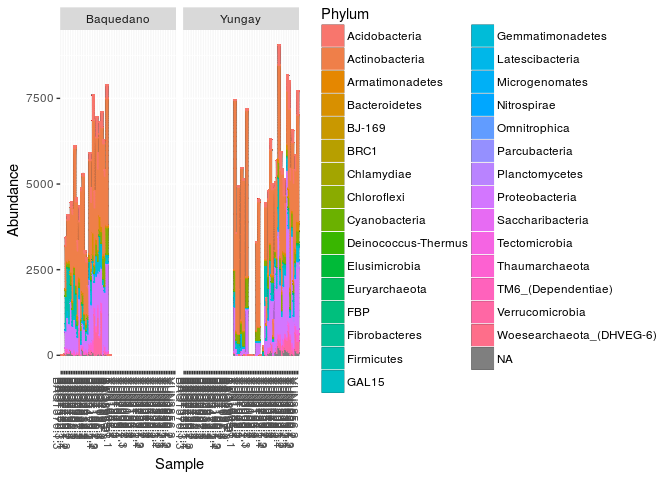
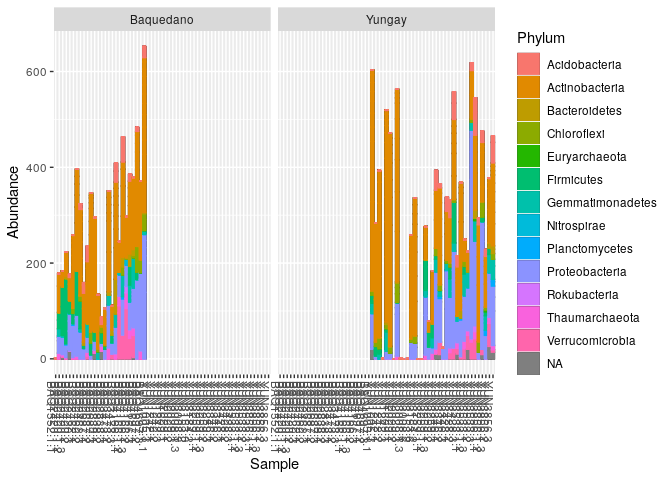
absolute_abundance_plots.Rmd: switched to 1% data to speed up chunks Also added timing code

diff --git a/content/lessons/absolute_abundance_plots.md b/content/lessons/absolute_abundance_plots.md
@@ -1,12 +1,14 @@
 Resources
 ---------
 
-This draws from [phyloseq plot\_bar tutorial](https://joey711.github.io/phyloseq/plot_bar-examples.html).
+This draws from [phyloseq plot\_bar
+tutorial](https://joey711.github.io/phyloseq/plot_bar-examples.html).
 
 Data
 ----
 
-This tutorial uses the 10% Atacama subset data (note that for the demux and dada2 tutorial we used the 1% Atacama subset)
+This tutorial uses the 10% Atacama subset data (note that for the demux
+and dada2 tutorial we used the 1% Atacama subset)
 
 Getting ready
 =============
@@ -16,22 +18,25 @@ First we load libraries.
 ``` r
 library(readr)
 library(phyloseq)
+library(ggplot2)
+library(dplyr)
 ```
 
 ``` r
-atacama.ps = read_rds(atacama.rds)
+atacama.ps = read_rds(atacama.ps.rds)
 print(atacama.ps)
 ```
 
     ## phyloseq-class experiment-level object
-    ## otu_table()   OTU Table:         [ 3388 taxa and 68 samples ]
-    ## sample_data() Sample Data:       [ 68 samples by 22 sample variables ]
-    ## tax_table()   Taxonomy Table:    [ 3388 taxa by 7 taxonomic ranks ]
+    ## otu_table()   OTU Table:         [ 459 taxa and 61 samples ]
+    ## sample_data() Sample Data:       [ 61 samples by 22 sample variables ]
+    ## tax_table()   Taxonomy Table:    [ 459 taxa by 7 taxonomic ranks ]
 
 Simple absolute abundance plot
 ------------------------------
 
-Let's start by making a simple absolute abundance bar plot with samples on the x-axis and absolute abundance on the y-axis.
+Let’s start by making a simple absolute abundance bar plot with samples
+on the x-axis and absolute abundance on the y-axis.
 
 ``` r
 plot_bar(atacama.ps)
@@ -41,9 +46,11 @@ plot_bar(atacama.ps)
 
 ### Absolute abundance plot with kingdom
 
-Now let's look add the kingdom distribution of the reads. This is a good sanity check for contamination - we expect the *vast* majority of our reads to be bacterial.
+Now let’s look add the kingdom distribution of the reads. This is a good
+sanity check for contamination - we expect the *vast* majority of our
+reads to be bacterial.
 
-First let's look up the names of the taxonomic levels
+First let’s look up the names of the taxonomic levels
 
 ``` r
 rank_names(atacama.ps)
@@ -59,7 +66,15 @@ plot_bar(atacama.ps, fill="Kingdom")
 
 ### Getting rid of annoying black lines
 
-You may have noticed that the bars are divided by short horizontal black lines. This is because each bar actually consists of a stack of sub-bars, each representing a different OTU. Usually the sub-bars delineation are more confusing than helpful, so I prefer to get rid of it. This isn't that hard to do! by default `plot_bar` outlines each sub-bar in black, but if we outline sub-bars with the same color as the bar fill, we get rid of the delineation. Let's re-make the *Absolute abundance plot with kingdom* from above, but without the black sub-bar outlines.
+You may have noticed that the bars are divided by short horizontal black
+lines. This is because each bar actually consists of a stack of
+sub-bars, each representing a different OTU. Usually the sub-bars
+delineation are more confusing than helpful, so I prefer to get rid of
+it. This isn’t that hard to do! by default `plot_bar` outlines each
+sub-bar in black, but if we outline sub-bars with the same color as the
+bar fill, we get rid of the delineation. Let’s re-make the *Absolute
+abundance plot with kingdom* from above, but without the black sub-bar
+outlines.
 
 ``` r
 plot_bar(atacama.ps, fill="Kingdom") +
@@ -70,7 +85,8 @@ plot_bar(atacama.ps, fill="Kingdom") +
 
 ### Absolute abundance plot with phyllum
 
-Now do the same as above, but with coloring by phyllum instead of by kingdom.
+Now do the same as above, but with coloring by phyllum instead of by
+kingdom.
 
 ``` r
 plot_bar(atacama.ps, fill="Phylum") +
@@ -82,9 +98,15 @@ plot_bar(atacama.ps, fill="Phylum") +
 Facet Abundance Plots
 ---------------------
 
-From our plots so far, we see some variation in number of reads per sample. This is to be expected, but we want to be sure that there are no confounding problems, for example, categories of samples that are outliers. To this end, we can make facet plots to group samples by different metadata features. Let's remake the kingdom absolute abundance plot so that samples are grouped by a variable, this will give us an idea if there is a correlation between the variable and abundance.
+From our plots so far, we see some variation in number of reads per
+sample. This is to be expected, but we want to be sure that there are no
+confounding problems, for example, categories of samples that are
+outliers. To this end, we can make facet plots to group samples by
+different metadata features. Let’s remake the kingdom absolute abundance
+plot so that samples are grouped by a variable, this will give us an
+idea if there is a correlation between the variable and abundance.
 
-First let's see what variables are available.
+First let’s see what variables are available.
 
 ``` r
 sample_variables(atacama.ps)
@@ -107,12 +129,12 @@ get_variable(atacama.ps,"SiteName") %>%
   unique()
 ```
 
-    ##  [1] "BAQ1370" "BAQ1552" "BAQ2420" "BAQ2462" "BAQ2687" "BAQ2838" "BAQ3473"
-    ##  [8] "BAQ4166" "BAQ4697" "BAQ895"  "YUN1005" "YUN1242" "YUN1609" "YUN2029"
-    ## [15] "YUN3008" "YUN3153" "YUN3184" "YUN3259" "YUN3346" "YUN3428" "YUN3533"
-    ## [22] "YUN3856"
+    ##  [1] "BAQ1552" "BAQ2420" "BAQ2462" "BAQ2687" "BAQ2838" "BAQ3473" "BAQ4166"
+    ##  [8] "BAQ4697" "YUN1005" "YUN1242" "YUN1609" "YUN2029" "YUN3008" "YUN3153"
+    ## [15] "YUN3184" "YUN3259" "YUN3346" "YUN3428" "YUN3533" "YUN3856"
 
-That's a lot of different values, it's going to make an illegible plot. Let's try another one.
+That’s a lot of different values, it’s going to make an illegible plot.
+Let’s try another one.
 
 ``` r
 get_variable(atacama.ps,"TransectName")  %>%
@@ -130,11 +152,21 @@ plot_bar(atacama.ps, facet_grid=~TransectName, fill="Phylum") +
 
 ![](absolute_abundance_plots_files/figure-markdown_github/unnamed-chunk-10-1.png)
 
-You might notice something weird things about the plot: There are large spaces between samples without bars. Let's try to fix this.
+You might notice something weird things about the plot: There are large
+spaces between samples without bars. Let’s try to fix this.
 
-### "Missing" Values in Facet Plots
+### “Missing” Values in Facet Plots
 
-By default, the facets of a facet plot use the same scale. Often this is the right thing to do - if the y-axis of each of the abundance plots had a different scale, it would be hard to compare bars between the facets. But sometimes it is not, such as our case. For the TransectName facet plot, since the x-axis is samples, each sample has a place in each facet, even though TransectName is mutually exclusive - each sample corresponds to a specific site and depth combination, and each site occurs in only one of the transects. Let's fix the TransectName facet plot so that each facet only shows the samples that correspond to that Transect.
+By default, the facets of a facet plot use the same scale. Often this is
+the right thing to do - if the y-axis of each of the abundance plots had
+a different scale, it would be hard to compare bars between the facets.
+But sometimes it is not, such as our case. For the TransectName facet
+plot, since the x-axis is samples, each sample has a place in each
+facet, even though TransectName is mutually exclusive - each sample
+corresponds to a specific site and depth combination, and each site
+occurs in only one of the transects. Let’s fix the TransectName facet
+plot so that each facet only shows the samples that correspond to that
+Transect.
 
 ``` r
 plot_bar(atacama.ps, facet_grid=~TransectName, fill="Phylum") +
@@ -144,7 +176,11 @@ plot_bar(atacama.ps, facet_grid=~TransectName, fill="Phylum") +
 
 ![](absolute_abundance_plots_files/figure-markdown_github/unnamed-chunk-11-1.png)
 
-Once we fix that, you may notice that the facets default to being the same size, despite the number of bars in the facet. Let's adjust the facet plot so the bars are all the same width, by making the size of the facet proportional to the number bars in it by using the `space` argument to `facet_grid`
+Once we fix that, you may notice that the facets default to being the
+same size, despite the number of bars in the facet. Let’s adjust the
+facet plot so the bars are all the same width, by making the size of the
+facet proportional to the number bars in it by using the `space`
+argument to `facet_grid`
 
 ``` r
 plot_bar(atacama.ps, facet_grid=~TransectName, fill="Phylum") +
@@ -163,13 +199,13 @@ Always print `sessionInfo` for reproducibility!
 sessionInfo()
 ```
 
-    ## R version 3.4.1 (2017-06-30)
+    ## R version 3.6.1 (2019-07-05)
     ## Platform: x86_64-pc-linux-gnu (64-bit)
-    ## Running under: Ubuntu 16.04.3 LTS
+    ## Running under: Ubuntu 18.04.3 LTS
     ## 
     ## Matrix products: default
-    ## BLAS: /usr/lib/openblas-base/libblas.so.3
-    ## LAPACK: /usr/lib/libopenblasp-r0.2.18.so
+    ## BLAS:   /usr/lib/x86_64-linux-gnu/blas/libblas.so.3.7.1
+    ## LAPACK: /usr/lib/x86_64-linux-gnu/lapack/liblapack.so.3.7.1
     ## 
     ## locale:
     ##  [1] LC_CTYPE=en_US.UTF-8       LC_NUMERIC=C              
@@ -180,37 +216,41 @@ sessionInfo()
     ## [11] LC_MEASUREMENT=en_US.UTF-8 LC_IDENTIFICATION=C       
     ## 
     ## attached base packages:
-    ## [1] datasets  utils     stats     grDevices graphics  methods   base     
+    ## [1] stats     graphics  grDevices utils     datasets  methods   base     
     ## 
     ## other attached packages:
-    ##  [1] phyloseq_1.22.3    readr_1.1.1        GGally_1.3.2      
-    ##  [4] broom_0.4.3        openintro_1.7.1    rvest_0.3.2       
-    ##  [7] xml2_1.1.1         stringr_1.2.0      lubridate_1.6.0   
-    ## [10] googlesheets_0.2.2 ggplot2_2.2.1      rmarkdown_1.8.6   
-    ## [13] knitr_1.18         downloader_0.4    
+    ## [1] dplyr_0.8.3     ggplot2_3.2.1   phyloseq_1.28.0 readr_1.3.1    
+    ## [5] knitr_1.24     
     ## 
     ## loaded via a namespace (and not attached):
-    ##  [1] Biobase_2.38.0      httr_1.3.1          tidyr_0.7.2        
-    ##  [4] jsonlite_1.5        splines_3.4.1       foreach_1.4.3      
-    ##  [7] assertthat_0.2.0    stats4_3.4.1        cellranger_1.1.0   
-    ## [10] yaml_2.1.16         pillar_1.0.1        backports_1.1.2    
-    ## [13] lattice_0.20-35     glue_1.2.0          digest_0.6.13      
-    ## [16] RColorBrewer_1.1-2  XVector_0.18.0      colorspace_1.3-2   
-    ## [19] htmltools_0.3.6     Matrix_1.2-10       plyr_1.8.4         
-    ## [22] psych_1.7.8         pkgconfig_2.0.1     zlibbioc_1.24.0    
-    ## [25] purrr_0.2.4         scales_0.5.0        tibble_1.4.1       
-    ## [28] mgcv_1.8-18         IRanges_2.12.0      BiocGenerics_0.24.0
-    ## [31] lazyeval_0.2.0      mnormt_1.5-5        survival_2.41-3    
-    ## [34] magrittr_1.5        evaluate_0.10.1     nlme_3.1-131       
-    ## [37] MASS_7.3-47         foreign_0.8-69      vegan_2.5-3        
-    ## [40] tools_3.4.1         data.table_1.10.4-2 hms_0.3            
-    ## [43] S4Vectors_0.16.0    munsell_0.4.3       cluster_2.0.6      
-    ## [46] bindrcpp_0.2        Biostrings_2.46.0   ade4_1.7-13        
-    ## [49] compiler_3.4.1      rlang_0.1.6         rhdf5_2.22.0       
-    ## [52] grid_3.4.1          RCurl_1.95-4.8      iterators_1.0.8    
-    ## [55] biomformat_1.6.0    igraph_1.1.2        labeling_0.3       
-    ## [58] bitops_1.0-6        gtable_0.2.0        codetools_0.2-15   
-    ## [61] multtest_2.34.0     reshape_0.8.7       reshape2_1.4.3     
-    ## [64] R6_2.2.2            dplyr_0.7.4         bindr_0.1          
-    ## [67] rprojroot_1.3-2     permute_0.9-4       ape_5.2            
-    ## [70] stringi_1.1.6       parallel_3.4.1      Rcpp_0.12.14
+    ##  [1] tidyselect_0.2.5    xfun_0.9            purrr_0.3.2        
+    ##  [4] reshape2_1.4.3      splines_3.6.1       lattice_0.20-38    
+    ##  [7] rhdf5_2.28.0        colorspace_1.4-1    vctrs_0.2.0        
+    ## [10] htmltools_0.3.6     stats4_3.6.1        mgcv_1.8-28        
+    ## [13] yaml_2.2.0          survival_2.44-1.1   rlang_0.4.0        
+    ## [16] pillar_1.4.2        withr_2.1.2         glue_1.3.1         
+    ## [19] BiocGenerics_0.30.0 foreach_1.4.7       plyr_1.8.4         
+    ## [22] stringr_1.4.0       zlibbioc_1.30.0     Biostrings_2.52.0  
+    ## [25] munsell_0.5.0       gtable_0.3.0        codetools_0.2-16   
+    ## [28] evaluate_0.14       labeling_0.3        Biobase_2.44.0     
+    ## [31] permute_0.9-5       IRanges_2.18.2      biomformat_1.12.0  
+    ## [34] parallel_3.6.1      Rcpp_1.0.2          backports_1.1.4    
+    ## [37] scales_1.0.0        vegan_2.5-6         S4Vectors_0.22.0   
+    ## [40] jsonlite_1.6        XVector_0.24.0      hms_0.5.1          
+    ## [43] digest_0.6.20       stringi_1.4.3       ade4_1.7-13        
+    ## [46] grid_3.6.1          tools_3.6.1         magrittr_1.5       
+    ## [49] lazyeval_0.2.2      tibble_2.1.3        cluster_2.1.0      
+    ## [52] crayon_1.3.4        ape_5.3             pkgconfig_2.0.2    
+    ## [55] zeallot_0.1.0       MASS_7.3-51.4       Matrix_1.2-17      
+    ## [58] data.table_1.12.2   assertthat_0.2.1    rmarkdown_1.15     
+    ## [61] iterators_1.0.12    Rhdf5lib_1.6.0      R6_2.4.0           
+    ## [64] multtest_2.40.0     igraph_1.2.4.1      nlme_3.1-141       
+    ## [67] compiler_3.6.1
+
+Start Time: 2019-10-18 03:56:47
+
+End Time: 2019-10-18 03:58:00
+
+Total Knit Time: 72.34 seconds
+
+Total Knit Time: 1.21 minutes
